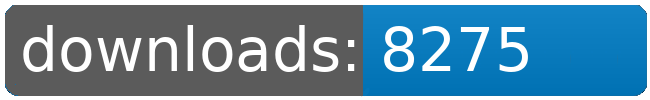
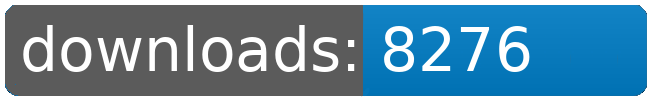
dl log written

Changed region(s): [[0.7692, 0.24, 0.8308, 0.72]]

diff --git a/README.md b/README.md
@@ -4,85 +4,85 @@
 <table>
 	<tr>
 		<td></td>
-		<td>2026-11-09</td>
 		<td>2026-11-10</td>
 		<td>2026-11-11</td>
 		<td>2026-11-12</td>
 		<td>2026-11-13</td>
 		<td>2026-11-14</td>
 		<td>2026-11-15</td>
+		<td>2026-11-16</td>
 		<td>today +</td>
 	</tr>
 	<tr>
 		<td>Bunsen.Burner</td>
-		<td>9129</td>
 		<td>9134</td>
 		<td>9137</td>
 		<td>9141</td>
 		<td>9146</td>
 		<td>9148</td>
 		<td>9152</td>
-		<td>+ 4</td>
+		<td>9152</td>
+		<td></td>
 	</tr>
 	<tr>
 		<td>Factory.Outlets</td>
-		<td>8245</td>
 		<td>8249</td>
 		<td>8254</td>
 		<td>8258</td>
 		<td>8263</td>
 		<td>8265</td>
 		<td>8269</td>
-		<td>+ 4</td>
+		<td>8269</td>
+		<td></td>
 	</tr>
 	<tr>
 		<td>Fundamental.Outfit.Expansion</td>
-		<td>9695</td>
 		<td>9704</td>
 		<td>9713</td>
 		<td>9723</td>
 		<td>9731</td>
 		<td>9735</td>
 		<td>9740</td>
-		<td>+ 5</td>
+		<td>9740</td>
+		<td></td>
 	</tr>
 	<tr>
 		<td>Fundamental.Outfit.Expansion.Alien</td>
-		<td>60</td>
 		<td>64</td>
 		<td>69</td>
 		<td>71</td>
 		<td>72</td>
 		<td>74</td>
 		<td>74</td>
+		<td>74</td>
 		<td></td>
 	</tr>
 	<tr>
 		<td>Jaws</td>
-		<td>7983</td>
 		<td>7987</td>
 		<td>7991</td>
 		<td>7997</td>
 		<td>8000</td>
 		<td>8004</td>
 		<td>8008</td>
-		<td>+ 4</td>
+		<td>8008</td>
+		<td></td>
 	</tr>
 	<tr>
 		<td>Korunak.Defense.Drones</td>
-		<td>8257</td>
 		<td>8261</td>
 		<td>8264</td>
 		<td>8266</td>
 		<td>8269</td>
 		<td>8271</td>
 		<td>8275</td>
-		<td>+ 4</td>
+		<td>8276</td>
+		<td>+ 1</td>
 	</tr>
 	<tr>
 		<td>Laser.Sight</td>
-		<td>28</td>
 		<td>29</td>
+		<td>30</td>
 		<td>30</td>
 		<td>30</td>
 		<td>30</td>
@@ -92,21 +92,21 @@
 	</tr>
 	<tr>
 		<td>Louise.Conglomerate.Shipyards</td>
-		<td>9008</td>
 		<td>9015</td>
 		<td>9022</td>
 		<td>9029</td>
 		<td>9034</td>
 		<td>9038</td>
 		<td>9042</td>
-		<td>+ 4</td>
+		<td>9042</td>
+		<td></td>
 	</tr>
 	<tr>
 		<td>Sheragi.Rebirth.Redux</td>
-		<td>117</td>
 		<td>118</td>
 		<td>119</td>
 		<td>119</td>
+		<td>120</td>
 		<td>120</td>
 		<td>120</td>
 		<td>120</td>
@@ -114,36 +114,36 @@
 	</tr>
 	<tr>
 		<td>Solar.Sails</td>
-		<td>8145</td>
 		<td>8150</td>
 		<td>8154</td>
 		<td>8158</td>
 		<td>8163</td>
 		<td>8166</td>
 		<td>8169</td>
-		<td>+ 3</td>
+		<td>8169</td>
+		<td></td>
 	</tr>
 	<tr>
 		<td>Zone.of.Control</td>
-		<td>7935</td>
 		<td>7941</td>
 		<td>7947</td>
 		<td>7951</td>
 		<td>7956</td>
 		<td>7959</td>
 		<td>7962</td>
-		<td>+ 3</td>
+		<td>7962</td>
+		<td></td>
 	</tr>
 	<tr>
 		<td>zzzZapping.Tweaks</td>
-		<td>39</td>
 		<td>40</td>
 		<td>40</td>
 		<td>40</td>
 		<td>40</td>
 		<td>41</td>
 		<td>42</td>
-		<td>+ 1</td>
+		<td>42</td>
+		<td></td>
 	</tr>
 	<tr>
 		<td></td>
@@ -153,8 +153,8 @@
 		<td></td>
 		<td></td>
 		<td></td>
-		<td>68883</td>
-		<td>32</td>
+		<td>68884</td>
+		<td>1</td>
 	</tr>
 </table>
 </sub></sup>
@@ -162,109 +162,109 @@
 <table>
 	<tr>
 		<td></td>
-		<td>2026-11-09</td>
 		<td>2026-11-10</td>
 		<td>2026-11-11</td>
 		<td>2026-11-12</td>
 		<td>2026-11-13</td>
 		<td>2026-11-14</td>
 		<td>2026-11-15</td>
+		<td>2026-11-16</td>
 		<td>today +</td>
 	</tr>
 	<tr>
 		<td>Fundamental.Outfit.Expansion</td>
-		<td>9695</td>
 		<td>9704</td>
 		<td>9713</td>
 		<td>9723</td>
 		<td>9731</td>
 		<td>9735</td>
 		<td>9740</td>
-		<td>+ 5</td>
+		<td>9740</td>
+		<td></td>
 	</tr>
 	<tr>
 		<td>Bunsen.Burner</td>
-		<td>9129</td>
 		<td>9134</td>
 		<td>9137</td>
 		<td>9141</td>
 		<td>9146</td>
 		<td>9148</td>
 		<td>9152</td>
-		<td>+ 4</td>
+		<td>9152</td>
+		<td></td>
 	</tr>
 	<tr>
 		<td>Louise.Conglomerate.Shipyards</td>
-		<td>9008</td>
 		<td>9015</td>
 		<td>9022</td>
 		<td>9029</td>
 		<td>9034</td>
 		<td>9038</td>
 		<td>9042</td>
-		<td>+ 4</td>
+		<td>9042</td>
+		<td></td>
 	</tr>
 	<tr>
 		<td>Korunak.Defense.Drones</td>
-		<td>8257</td>
 		<td>8261</td>
 		<td>8264</td>
 		<td>8266</td>
 		<td>8269</td>
 		<td>8271</td>
 		<td>8275</td>
-		<td>+ 4</td>
+		<td>8276</td>
+		<td>+ 1</td>
 	</tr>
 	<tr>
 		<td>Factory.Outlets</td>
-		<td>8245</td>
 		<td>8249</td>
 		<td>8254</td>
 		<td>8258</td>
 		<td>8263</td>
 		<td>8265</td>
 		<td>8269</td>
-		<td>+ 4</td>
+		<td>8269</td>
+		<td></td>
 	</tr>
 	<tr>
 		<td>Solar.Sails</td>
-		<td>8145</td>
 		<td>8150</td>
 		<td>8154</td>
 		<td>8158</td>
 		<td>8163</td>
 		<td>8166</td>
 		<td>8169</td>
-		<td>+ 3</td>
+		<td>8169</td>
+		<td></td>
 	</tr>
 	<tr>
 		<td>Jaws</td>
-		<td>7983</td>
 		<td>7987</td>
 		<td>7991</td>
 		<td>7997</td>
 		<td>8000</td>
 		<td>8004</td>
 		<td>8008</td>
-		<td>+ 4</td>
+		<td>8008</td>
+		<td></td>
 	</tr>
 	<tr>
 		<td>Zone.of.Control</td>
-		<td>7935</td>
 		<td>7941</td>
 		<td>7947</td>
 		<td>7951</td>
 		<td>7956</td>
 		<td>7959</td>
 		<td>7962</td>
-		<td>+ 3</td>
+		<td>7962</td>
+		<td></td>
 	</tr>
 	<tr>
 		<td>Sheragi.Rebirth.Redux</td>
-		<td>117</td>
 		<td>118</td>
 		<td>119</td>
 		<td>119</td>
+		<td>120</td>
 		<td>120</td>
 		<td>120</td>
 		<td>120</td>
@@ -272,35 +272,35 @@
 	</tr>
 	<tr>
 		<td>Fundamental.Outfit.Expansion.Alien</td>
-		<td>60</td>
 		<td>64</td>
 		<td>69</td>
 		<td>71</td>
 		<td>72</td>
 		<td>74</td>
 		<td>74</td>
+		<td>74</td>
 		<td></td>
 	</tr>
 	<tr>
 		<td>zzzZapping.Tweaks</td>
-		<td>39</td>
 		<td>40</td>
 		<td>40</td>
 		<td>40</td>
 		<td>40</td>
 		<td>41</td>
 		<td>42</td>
-		<td>+ 1</td>
+		<td>42</td>
+		<td></td>
 	</tr>
 	<tr>
 		<td>Laser.Sight</td>
-		<td>28</td>
 		<td>29</td>
 		<td>30</td>
 		<td>30</td>
 		<td>30</td>
 		<td>30</td>
 		<td>30</td>
+		<td>30</td>
 		<td></td>
 	</tr>
 	<tr>
@@ -311,8 +311,8 @@
 		<td></td>
 		<td></td>
 		<td></td>
-		<td>68883</td>
-		<td>32</td>
+		<td>68884</td>
+		<td>1</td>
 	</tr>
 </table>
 </sub></sup>
@@ -379,9 +379,9 @@
 		<td></td>
 	</tr>
 	<tr>
-		<td>398</td>
-		<td>20.49</td>
-		<td>6.18</td>
+		<td>399</td>
+		<td>20.44</td>
+		<td>6.16</td>
 		<td></td>
 		<td></td>
 	</tr>
